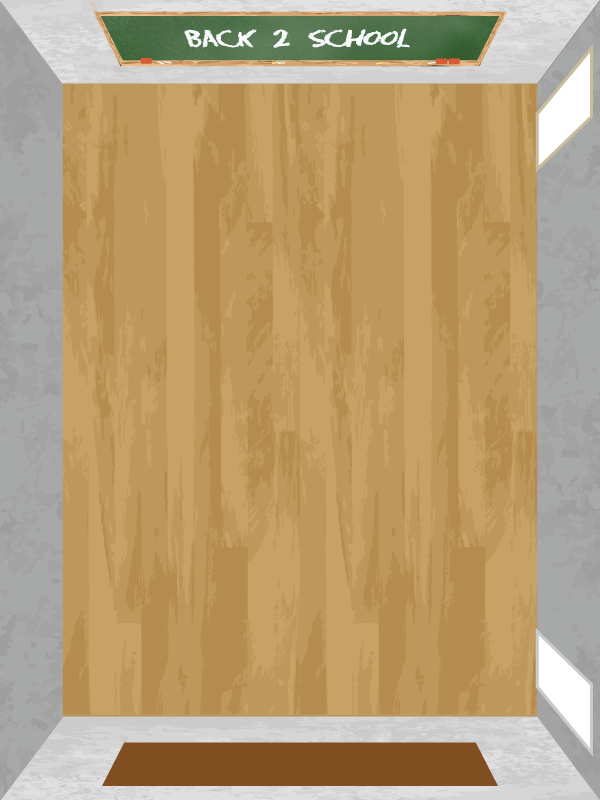
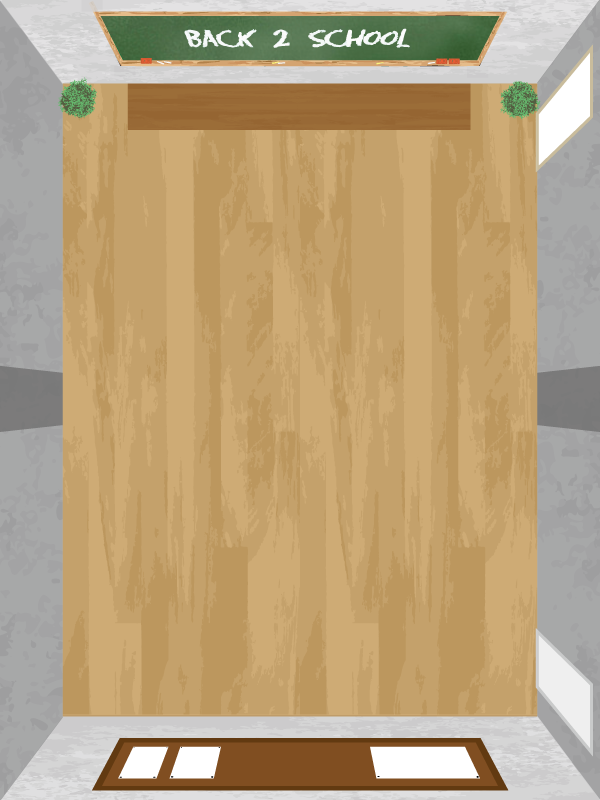
complete desk collision

diff --git a/src/dev/jadez/cheatgame/entities/creatures/Player.java b/src/dev/jadez/cheatgame/entities/creatures/Player.java
@@ -34,25 +34,25 @@ public class Player extends Creature {
 		if (game.getKeyManager().up)
 		{
 			if(!checkCollision(x, y - move_amount) && !checkCollision(x + width, y - move_amount))
-				if (y - move_amount >= 0)
+				if (y - move_amount >= 84)
 					y -= move_amount;
 		}
 		if (game.getKeyManager().down)
 		{
 			if(!checkCollision(x, y + height + move_amount) && !checkCollision(x + width, y + height + move_amount))
-				if (y + move_amount + this.height <= 800)
+				if (y + move_amount + this.height <= 716)
 					y += move_amount;
 		}
 		if (game.getKeyManager().left)
 		{	
 			if(!checkCollision(x - move_amount, y) && !checkCollision(x - move_amount, y + height))
-				if (x - move_amount >= 0)
+				if (x - move_amount >= 63)
 					x -= move_amount;
 		}
 		if (game.getKeyManager().right)
 		{
 			if(!checkCollision(x + width + move_amount, y) && !checkCollision(x + width + move_amount, y + height))
-				if (x + move_amount + this.width <= 600)
+				if (x + move_amount + this.width <= 537)
 					x += move_amount;
 		}
 	}
@@ -62,12 +62,15 @@ public class Player extends Creature {
 	}
 	
 	public boolean checkCollision(int x,int y) {
-		if(classroom.getDesk().getRange().contains(new Point(x,y))) {
-			System.out.println("bang");
-			return true;
+		boolean bang = false;
+		for(int i = 0; i < 9; i++)
+		{
+			if(classroom.getDesk()[i].getRange().contains(new Point(x,y))) {
+//				System.out.println("bang");
+				bang = true;
+			}
 		}
-		else return false;
-			
+		return bang;
 	}
 
 }

diff --git a/src/dev/jadez/cheatgame/entities/fixedObject/Classroom.java b/src/dev/jadez/cheatgame/entities/fixedObject/Classroom.java
@@ -9,30 +9,29 @@ public class Classroom {
 	Desk[] deskArray;
 	private int deskWidth;
 	private int deskHeight;
-	public Classroom()
-	{
+
+	public Classroom() {
 		deskWidth = 166;
 		deskHeight = 48;
 		deskArray = new Desk[9];
-		deskArray[0] = new Desk(, , ,); //x, y, 
-		deskArray[1] = new Desk(, , ,);
-		deskArray[2] = new Desk(, , ,);
-		deskArray[3] = new Desk(, , ,);
-		deskArray[4] = new Desk(, , ,);
-		deskArray[5] = new Desk(, , ,);
-		deskArray[6] = new Desk(, , ,);
-		deskArray[7] = new Desk(, , ,);
-		deskArray[8] = new Desk(, , ,);
+		deskArray[0] = new Desk(251, 133, 97, 52); // x, y,
+		deskArray[1] = new Desk(108, 228, 167, 48);
+		deskArray[2] = new Desk(105, 344, 167, 48);
+		deskArray[3] = new Desk(104, 460, 167, 48);
+		deskArray[4] = new Desk(105, 587, 167, 48);
+		deskArray[5] = new Desk(325, 227, 167, 48);
+		deskArray[6] = new Desk(323, 343, 167, 48);
+		deskArray[7] = new Desk(322, 458, 167, 48);
+		deskArray[8] = new Desk(327, 586, 167, 48);
 	}
-	
-	public Desk[] getDesk()
-	{
+
+	public Desk[] getDesk() {
 		return deskArray;
 	}
-	
+
 	public void render(Graphics g) {
 		g.drawImage(Assets.classBack, 0, 0, null);
 		g.drawImage(Assets.desks, 0, 0, null);
-//		g.drawPolygon(deskArray.getRange());;
+		// g.drawPolygon(deskArray.getRange());;
 	}
 }
